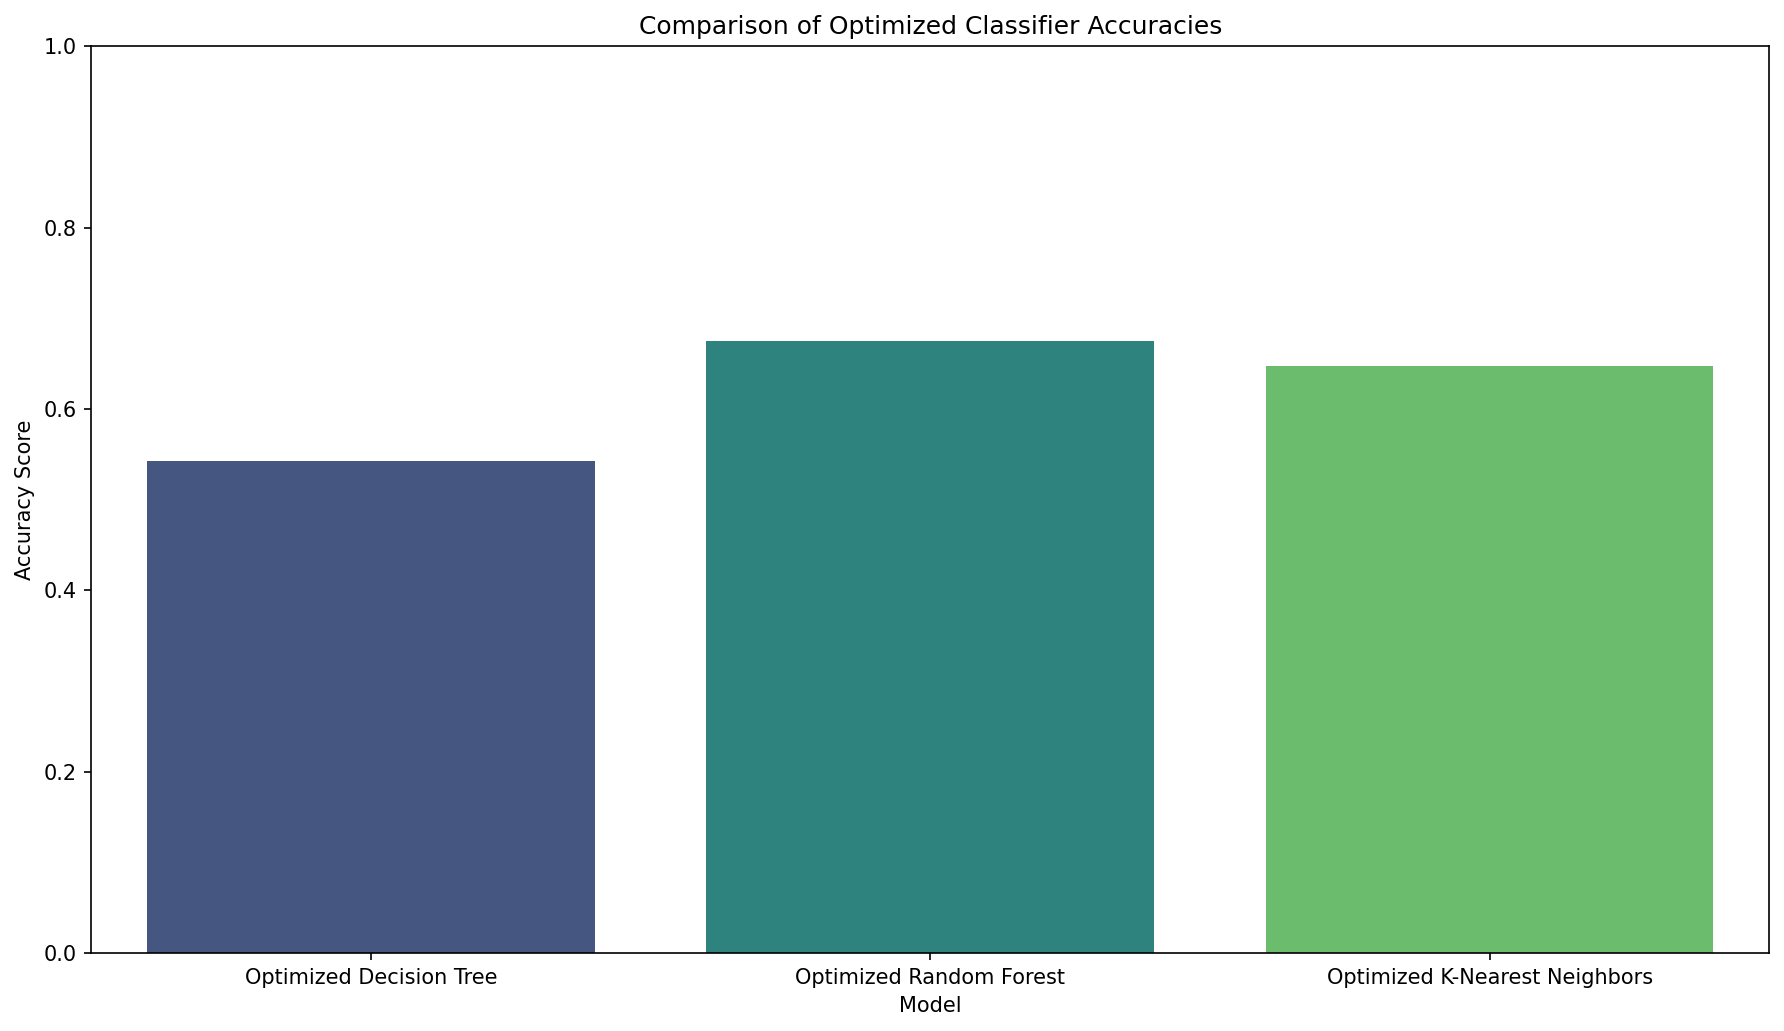
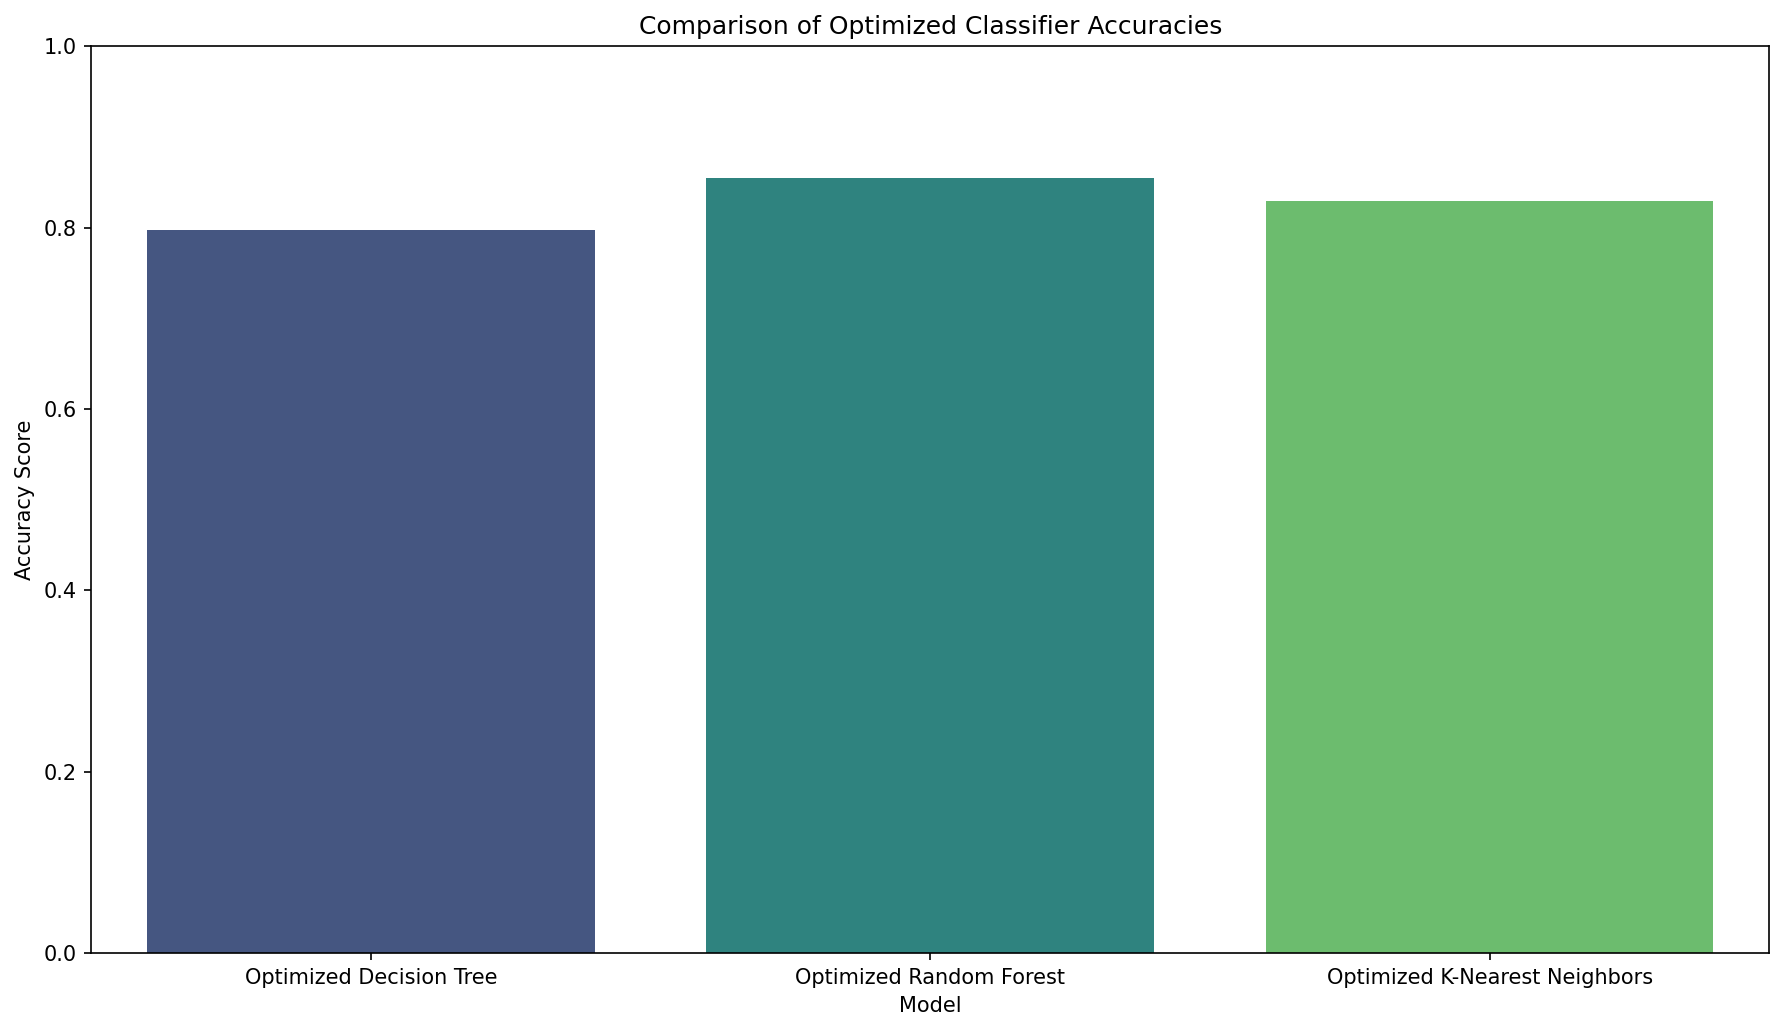
Update projet Data Mining complet : code + outputs + corrections RF

Changed region(s): [[0.0617, 0.2173, 0.3391, 0.4656], [0.7091, 0.1862, 0.9865, 0.3725], [0.37, 0.1552, 0.6474, 0.3414]]

diff --git a/classique.py b/classique.py
@@ -40,9 +40,22 @@ white_wine_df['wine_type'] = 1
 # Combine the datasets
 wine_df = pd.concat([red_wine_df, white_wine_df], ignore_index=True)
 
+# Regroupement des classes en 3 catégories
+def categorize_quality(q):
+    if q <= 4:
+        return 0   # Mauvaise
+    elif q <= 6:
+        return 1   # Moyenne
+    else:
+        return 2   # Bonne
+
+wine_df['quality_grouped'] = wine_df['quality'].apply(categorize_quality)
+
 # Define features (X) and target (y)
-X = wine_df.drop('quality', axis=1)
-y = wine_df['quality']
+X = wine_df.drop(['quality', 'quality_grouped'], axis=1)
+y = wine_df['quality_grouped']
+
+
 
 print("Shape of combined DataFrame (wine_df):", wine_df.shape)
 print("Shape of features (X):", X.shape)
@@ -57,7 +70,14 @@ print(y.head())
 
 from sklearn.model_selection import train_test_split
 
-X_train, X_test, y_train, y_test = train_test_split(X, y, test_size=0.2, random_state=42)
+X_train, X_test, y_train, y_test = train_test_split(
+    X, y,
+    test_size=0.2,
+    random_state=42,
+    stratify=y
+)
+
+
 
 print("Shape of X_train:", X_train.shape)
 print("Shape of X_test:", X_test.shape)
@@ -80,8 +100,8 @@ param_grid = {
 
 # Initialize StratifiedKFold for cross-validation
 # quality (target variable) has imbalanced classes, so StratifiedKFold is appropriate.
-# Adjusted n_splits to 2 to avoid 'least populated class' warning, as the smallest class has 2 samples.
-strat_kfold = StratifiedKFold(n_splits=2, shuffle=True, random_state=42)
+# Adjusted n_splits to 5 to avoid 'least populated class' warning, as the smallest class has 5 samples.
+strat_kfold = StratifiedKFold(n_splits=5, shuffle=True, random_state=42)
 
 # Initialize GridSearchCV
 grid_search_dtc = GridSearchCV(
@@ -128,8 +148,8 @@ param_grid = {
 }
 
 # Initialize StratifiedKFold for cross-validation
-# Adjusted n_splits to 2 to avoid 'least populated class' warning, as the smallest class has 2 samples in y_train.
-strat_kfold = StratifiedKFold(n_splits=2, shuffle=True, random_state=42)
+# Adjusted n_splits to 5 to avoid 'least populated class' warning, as the smallest class has 5 samples in y_train.
+strat_kfold = StratifiedKFold(n_splits=5, shuffle=True, random_state=42)
 
 # Initialize GridSearchCV
 grid_search_rfc = GridSearchCV(
@@ -183,8 +203,8 @@ param_grid = {
 }
 
 # Initialisation de StratifiedKFold pour cross-validation
-# Adjusted n_splits to 2 to avoid 'least populated class' warning, as the smallest class has 2 samples in y_train.
-strat_kfold = StratifiedKFold(n_splits=2, shuffle=True, random_state=42)
+# Adjusted n_splits to 5 to avoid 'least populated class' warning, as the smallest class has 5 samples in y_train.
+strat_kfold = StratifiedKFold(n_splits=5, shuffle=True, random_state=42)
 
 # Initialisation de GridSearchCV
 grid_search_knn = GridSearchCV(
@@ -281,94 +301,67 @@ print(f"[PLOT] Figure enregistrée : {out_path}")
 
 plt.close()
 
-###Tableau comparatif des prédictions du modéle Random Forest
 
-import sys, time
+# =========================
+# Comparaison des Prédictions du Modèle Random Forest
+# =========================
+import time, sys
+import numpy as np
 import pandas as pd
 
-def categorize_quality(quality_score):
-    if quality_score <= 4:
-        return 'Mauvaise'
-    elif quality_score <= 6:
-        return 'Moyenne'
-    else:
-        return 'Bonne'
+# (Décommente si besoin)
+# y_pred_best_rfc = best_rfc.predict(X_test)
 
 t0 = time.perf_counter()
 print("[CHK] Début bloc comparaison"); sys.stdout.flush()
 
-# --- 1) Sécuriser index/tailles pour éviter un alignement coûteux
-# On force tout sur le même index, celui de y_test
+# -- Préparation des séries (alignement sûr des index)
 idx = getattr(y_test, "index", None)
 if idx is None:
-    # y_test est peut-être un ndarray -> on fabrique un RangeIndex cohérent
     idx = pd.RangeIndex(start=0, stop=len(y_test), step=1)
 
-# Convertir les prédictions en Series avec le même index
-if not isinstance(y_pred_best_rfc, pd.Series):
-    y_pred_ser = pd.Series(y_pred_best_rfc, index=idx, name="Qualité Prédite")
-else:
-    # Réindexer pour correspondre
-    y_pred_ser = y_pred_best_rfc.reindex(idx)
+y_test_ser = pd.Series(np.asarray(y_test), index=idx, name="Vraie Qualité")
+y_pred_ser = pd.Series(np.asarray(y_pred_best_rfc), index=idx, name="Qualité Prédite")
 
-# y_test en Series (si besoin) + réindexage
-if not isinstance(y_test, pd.Series):
-    y_test_ser = pd.Series(y_test, index=idx, name="Vraie Qualité")
-else:
-    y_test_ser = y_test.reindex(idx).rename("Vraie Qualité")
-
-# Récupération sûre du type de vin depuis X_test
-# - On reindexe sur idx pour être aligné
-# - .to_numpy() évite de propager l'index lors de l'assignation
+# Récupérer le type de vin (0=rouge, 1=blanc) aligné
 wine_type = X_test.reindex(idx)["wine_type"].to_numpy()
 
 t1 = time.perf_counter()
 print(f"[TIMING] Préparation des séries : {t1 - t0:.3f}s"); sys.stdout.flush()
 
-# --- 2) Construction du DataFrame sans alignements implicites
+# -- Construction du tableau enrichi (sans alignements implicites)
 comparison_df_enhanced = pd.DataFrame({
-    'Vraie Qualité': y_test_ser,
-    'Qualité Prédite': y_pred_ser,
-    'Type de Vin': wine_type
+    "Vraie Qualité": y_test_ser,       # labels 0/1/2
+    "Qualité Prédite": y_pred_ser,     # labels 0/1/2
+    "Type de Vin": wine_type           # 0/1
 }, index=idx)
 
-# --- 3) Catégorisation (vectorisée donc rapide)
-comparison_df_enhanced['Catégorie Vraie'] = pd.cut(
-    comparison_df_enhanced['Vraie Qualité'],
-    bins=[-float("inf"), 4, 6, float("inf")],
-    labels=['Mauvaise', 'Moyenne', 'Bonne'],
-    right=True
-)
-comparison_df_enhanced['Catégorie Prédite'] = pd.cut(
-    comparison_df_enhanced['Qualité Prédite'],
-    bins=[-float("inf"), 4, 6, float("inf")],
-    labels=['Mauvaise', 'Moyenne', 'Bonne'],
-    right=True
-)
+# -- Catégorisation par mapping direct (PAS de pd.cut)
+label_map = {0: "Mauvaise", 1: "Moyenne", 2: "Bonne"}
+comparison_df_enhanced["Catégorie Vraie"] = comparison_df_enhanced["Vraie Qualité"].map(label_map)
+comparison_df_enhanced["Catégorie Prédite"] = comparison_df_enhanced["Qualité Prédite"].map(label_map)
 
-comparison_df_enhanced['Catégorie Correcte'] = (
-    comparison_df_enhanced['Catégorie Vraie'] == comparison_df_enhanced['Catégorie Prédite']
+# -- Exactitude booléenne
+comparison_df_enhanced["Catégorie Correcte"] = (
+    comparison_df_enhanced["Catégorie Vraie"] == comparison_df_enhanced["Catégorie Prédite"]
 )
 
 t2 = time.perf_counter()
 print(f"[TIMING] Construction + catégorisation : {t2 - t1:.3f}s"); sys.stdout.flush()
 
-# --- 4) Affichage rapide et non bloquant (éviter IPython.display dans un .py)
+# -- Affichage formaté exactement comme désiré
 print("Comparaison des Prédictions du Modèle Random Forest (tableau enrichi) :")
 with pd.option_context('display.max_rows', 20, 'display.max_columns', 20, 'display.width', 160):
-    print(comparison_df_enhanced.head(20).to_string())
-sys.stdout.flush()
+    print(comparison_df_enhanced.head(20).to_string(index=True))
 
-# --- 5) Résumés
-correct_category_predictions = comparison_df_enhanced['Catégorie Correcte'].sum()
-total_predictions = len(comparison_df_enhanced)
-category_accuracy = correct_category_predictions / total_predictions
-print(f"\nPrécision de la Catégorie (Mauvaise/Moyenne/Bonne) : {category_accuracy:.2f}")
-print("\nPrécision de la Catégorie par Type de Vin :")
-print(comparison_df_enhanced.groupby('Type de Vin', observed=True)['Catégorie Correcte'].mean())
-sys.stdout.flush()
+# -- Métriques catégorie
+category_accuracy = comparison_df_enhanced["Catégorie Correcte"].mean()
+print(f"\nPrécision de la Catégorie (Mauvaise/Moyenne/Bonne) : {category_accuracy:.2f}\n")
+
+print("Précision de la Catégorie par Type de Vin :")
+acc_by_type = comparison_df_enhanced.groupby("Type de Vin", observed=True)["Catégorie Correcte"].mean()
+print(acc_by_type)
 
 t3 = time.perf_counter()
-print(f"[TIMING] Affichages + métriques : {t3 - t2:.3f}s"); sys.stdout.flush()
+print(f"[TIMING] Affichages + métriques : {t3 - t2:.3f}s")
 print(f"[TIMING] Total bloc comparaison : {t3 - t0:.3f}s"); sys.stdout.flush()
-
